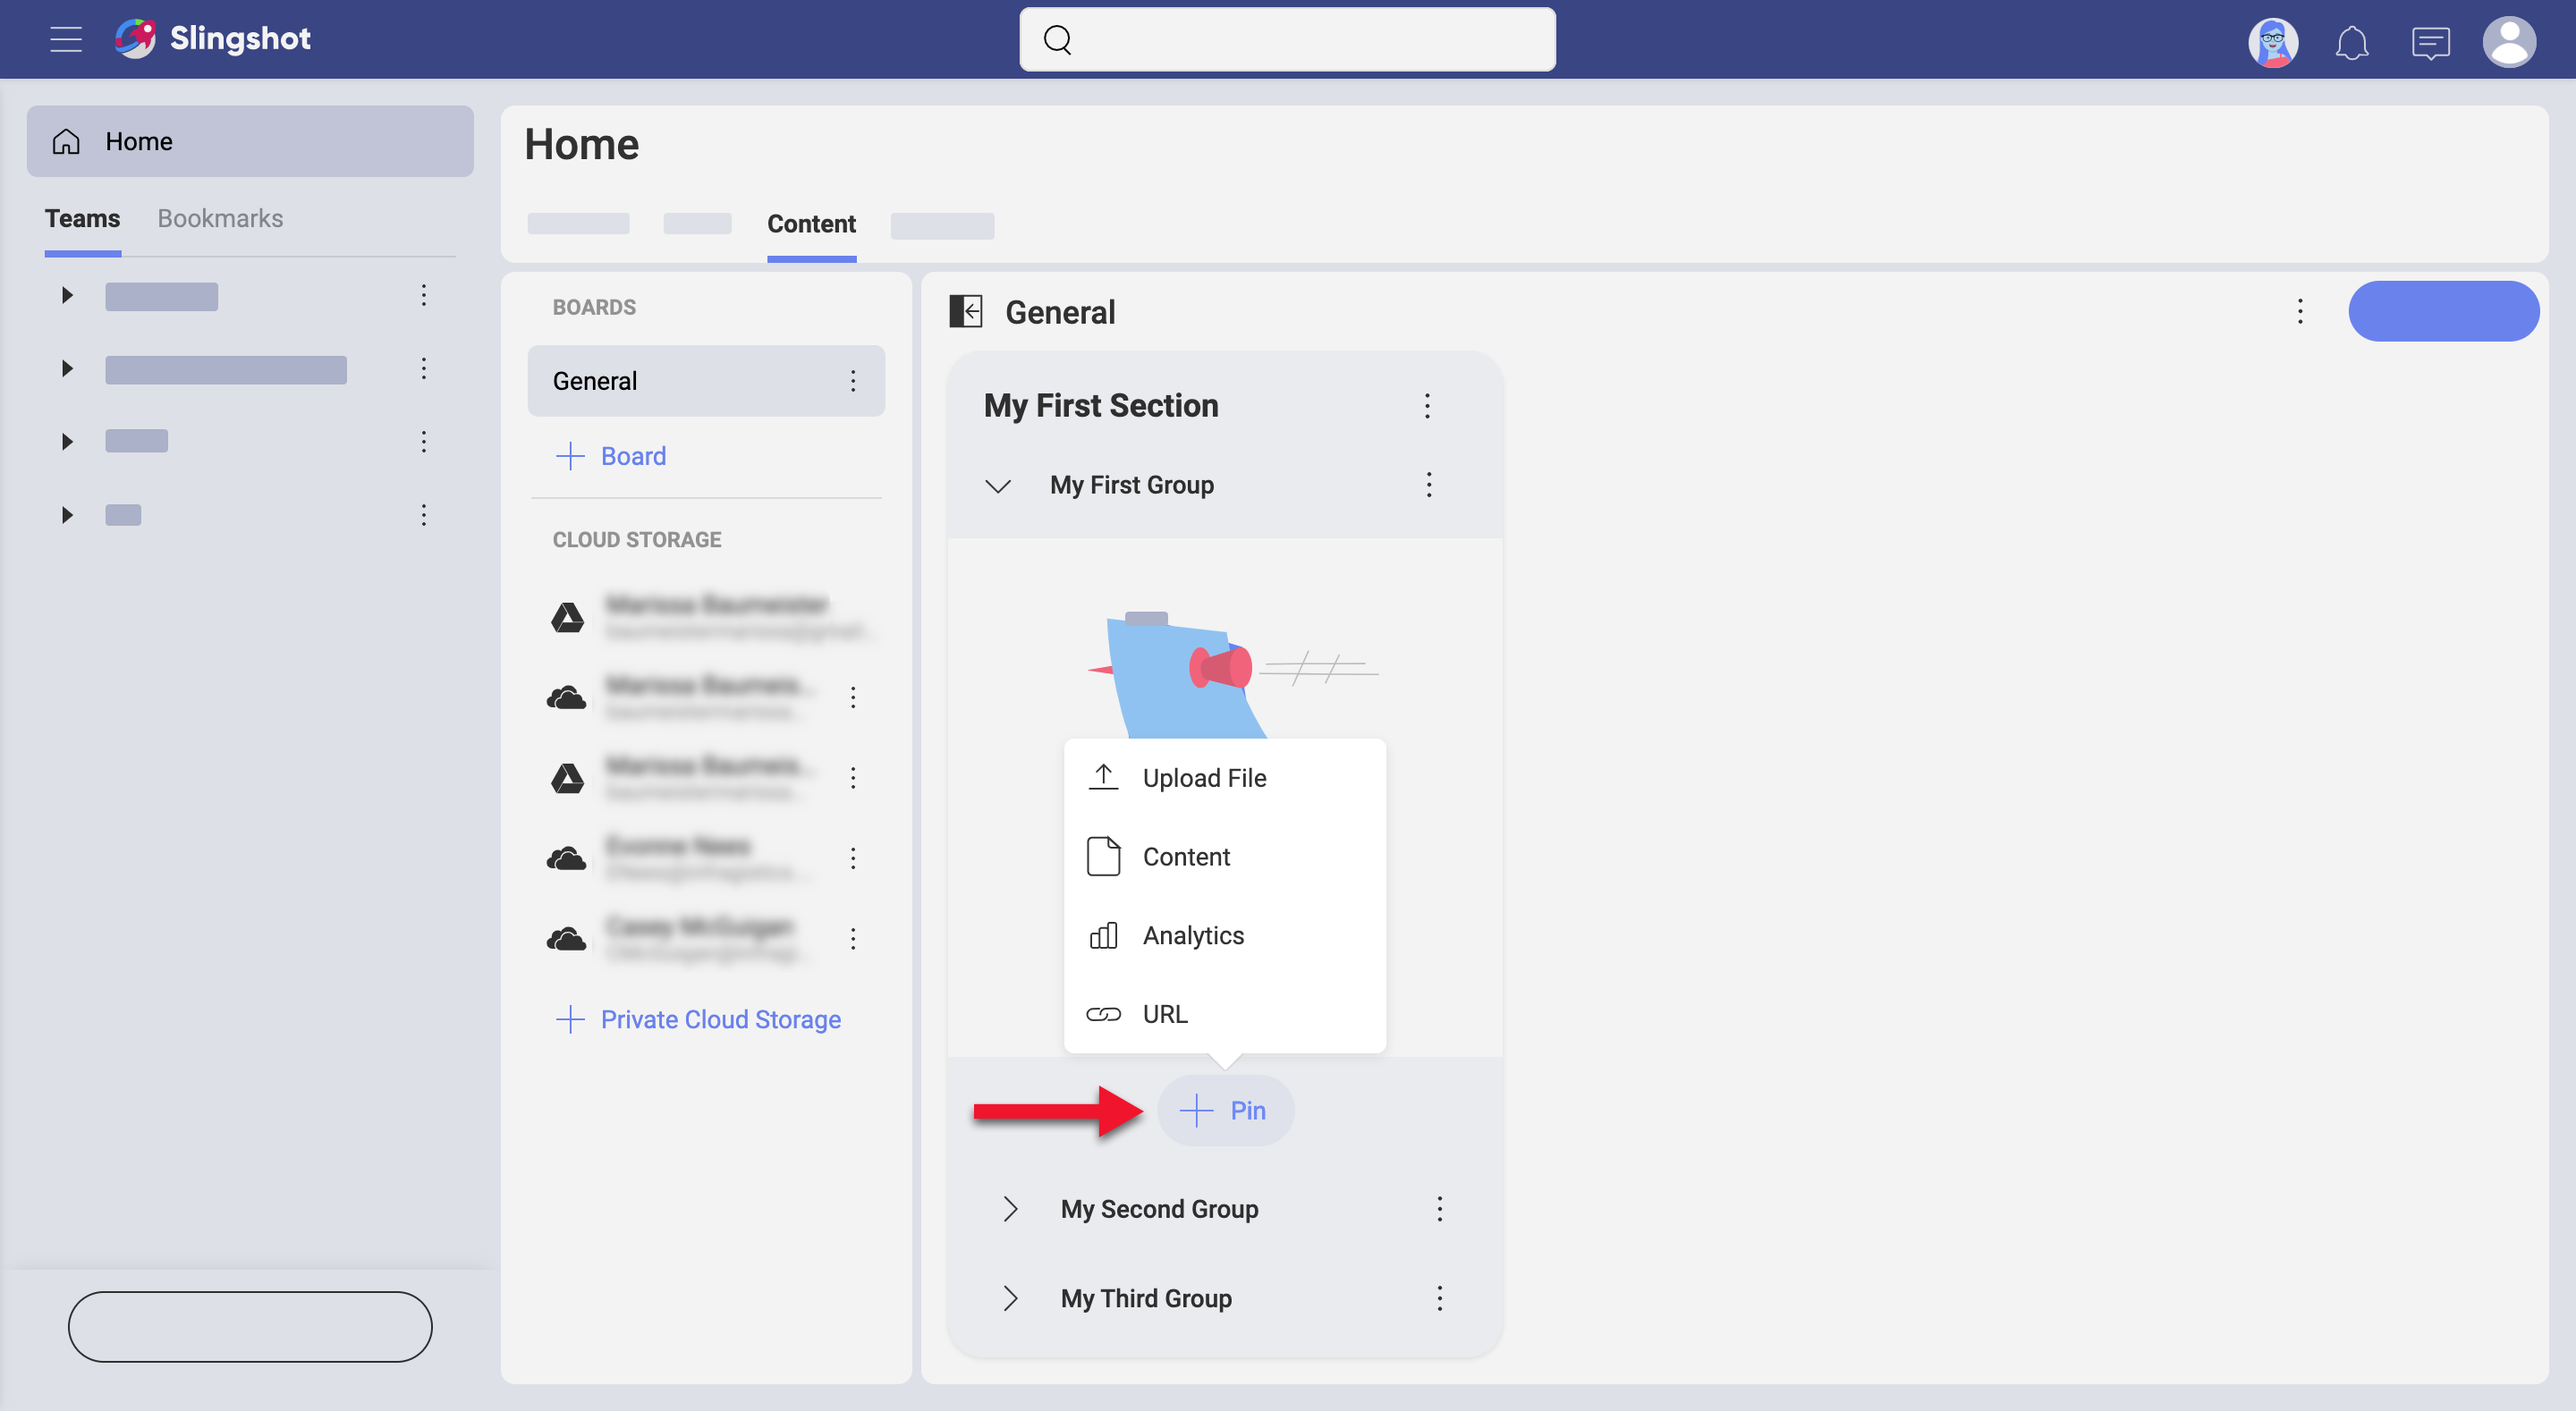
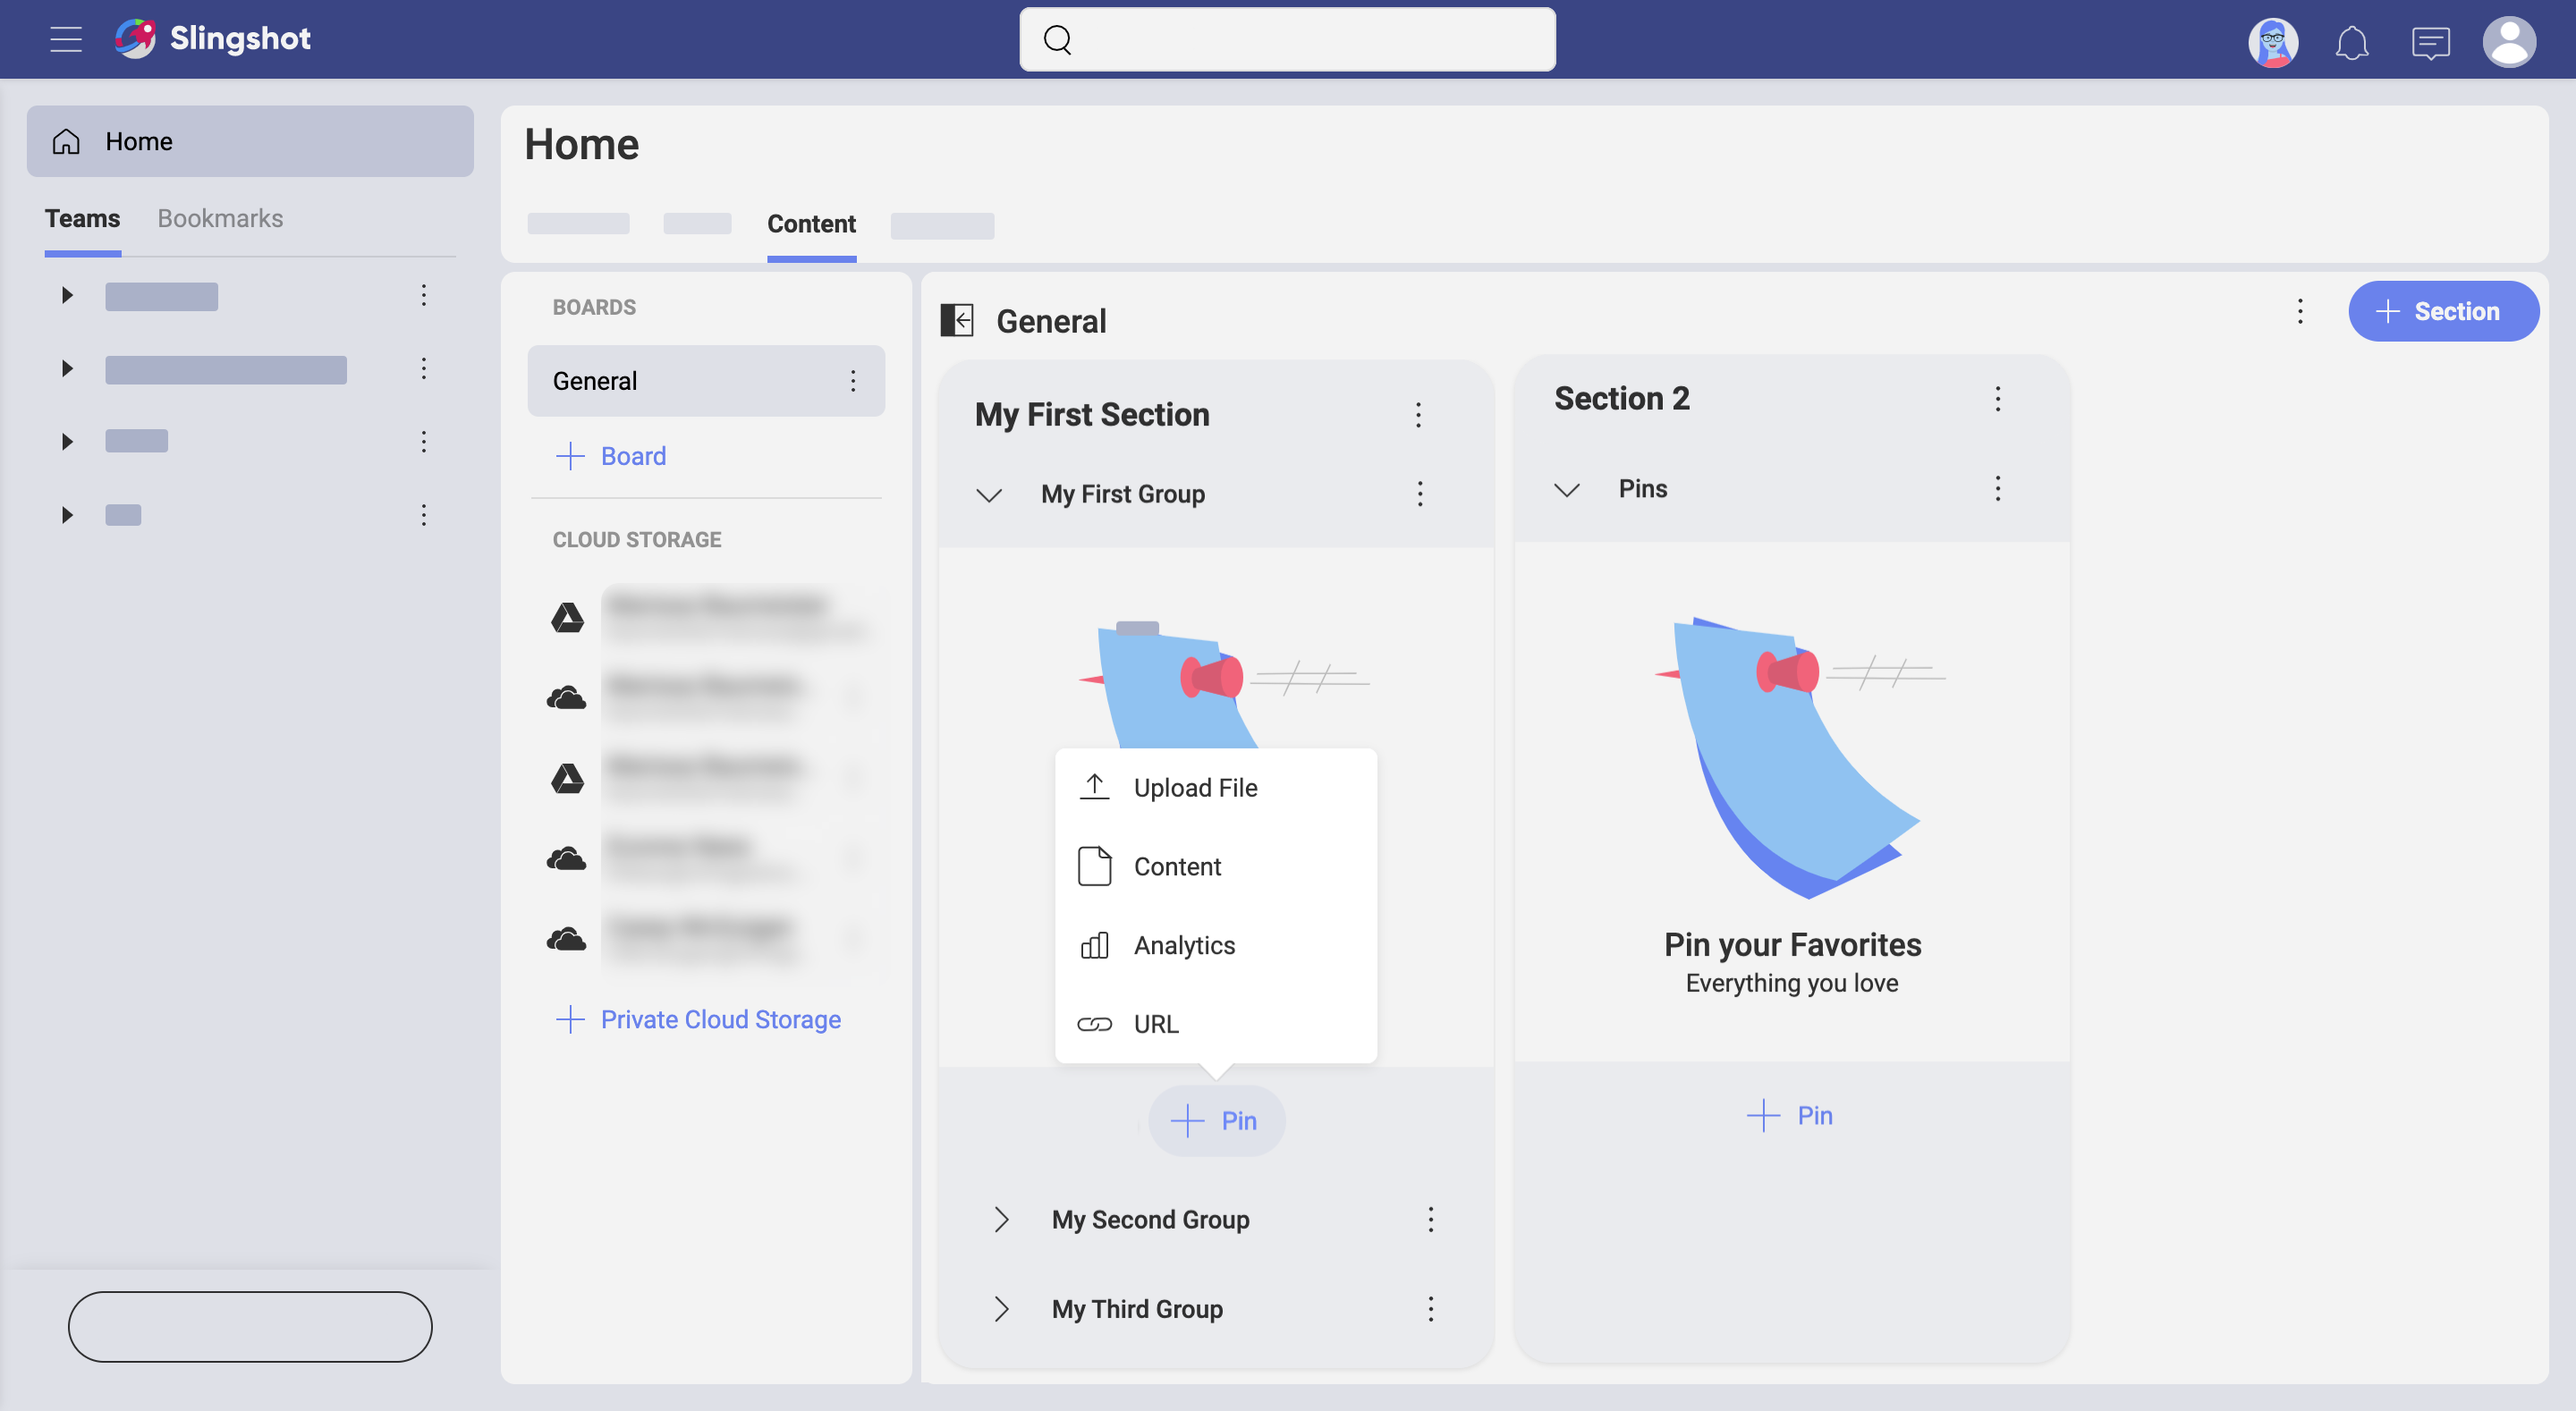
Edit Content&Boards

diff --git a/docTopics/en/components/content-boards.md b/docTopics/en/components/content-boards.md
@@ -2,25 +2,44 @@
 
 Content is really a broad term, but related to IT, is always about information made available by a digital or electronic medium.  The content that is relevant to you might be stored in different locations and, in today's digital world, probably in different cloud storages. Slingshot lets you access that content, share it, and organize it in boards.
 
-Scrum boards and Kanban boards are well-known IT concepts that are are both related to project management. Going for a broader concept, boards can also be just containers that help organize and manage content. That is the case of Slingshot, boards were created so you can have a place to organize your content.
+Scrum boards and Kanban boards are well-known IT concepts that are both related to project management. Going for a broader concept, boards can also be just containers that help organize and manage content. That is the case of Slingshot, boards were created so you can have a place to organize your content.
 
-### So, What's Content and Boards within Slingshot?
+### So, What's Content Within Slingshot?
 
-Boards are basically containers, rich and flexible containers designed to organize, manage, and share your content. And content refers to information, more specifically files, that are made available to you through connections to cloud storages. So, when you need to organize or share content from your cloud storages, just pin that content to a board, and later organize or share that board.
+Content refers to:
+
+* files,
+* *Analytics* dashboards, and 
+* URLs
+
+made available to you in the _Content_ tab. You will find a *Content* tab in _Home_, each of your *Workspaces*, and in the *Organization* space. You can add content from your device or cloud storage.
+
+### What Are Boards Within Slingshot? 
+
+Boards are basically containers, rich and flexible containers designed to organize, manage, and share your content. 
+So, when you need to organize or share content from your cloud storages or device, just pin that content to a board, and later organize or share that board.
 
 ### Working with Your Content in Slingshot
 
-Pinning content to a board is one of the most common actions in Slingshot. This is how you make content from your cloud storages available for others. You just go to a board and choose _Pin_ > *Content* as shown below.
+Pinning content is how you make your content available in Slingshot. You just go to a board and choose _Pin_. 
 
-<img src="../images/pin-content-action.png" alt="Pin Content action in Slingshot" width="100%"/>
+As you can see below, your board is divided into sections (_My First Section_, _Section 2_ in the image). Sections can be divided to groups, where your content is actually pinned (see _My First Group_, _My Second Group_ and _My Third Group_ in the image above). Groups are the most basic element used to organize content on your boards. 
 
-As you can see above, you actually pin content to groups (see _My First Group_, _My Second Group_ and _My Third Group_ in the image above). Groups are the most basic element used to organize content on your boards. As said earlier, boards are just containers that rely on sections and groups to organize and divide content.
+<img src="../images/pin-content-action.png" alt="Pin action in Slingshot" width="100%"/>
 
-After choosing to pin content, a dialog is shown where you can select existing cloud storage or add a new one.
+To pin a file from your device, choose _Upload File_. 
+
+If you select _Content_, you can pin: 
+
+* files from your cloud storage,
+* files that are already pinned to other boards in Slingshot, or 
+* dashboards from Analytics.
+
+If you choose to pin content from cloud storage, a dialog is shown where you can select existing cloud storage or add a new one.
 
 <img src="../images/pin-content-storages.png" alt="Choosing a cloud storage to pin content from in Slingshot" width="100%"/>
 
-Then, just choose the file or folder you want to pin to the board. Yes, you can pin either files or folders, plus you can even upload files on the fly (see below) and pin them.  
+Then, just choose the file or folder you want to pin to the board. Yes, you can pin either files or folders, plus you can even upload files from your device to the cloud storage on the fly (see below) and pin them.  
 
 <img src="../images/pin-content-upload.png" alt="Choosing content from the cloud storage to be pinned in Slingshot" width="100%"/>
 
@@ -28,7 +47,7 @@ Alternatively, you can go to existing cloud storage in you _Home_ tab and choose
 
 <img src="../images/pin-content-home-tab.png" alt="Pinning content from the cloud storage" width="100%"/>
 
-Note that you can also create a task or start a discussion on the fly. After choosing an option, you'll be prompted to select where the pin, task, or discussion will be created.
+After choosing an option, you'll be prompted to select where to pin the file. 
 
 <img src="../images/pin-content-destination.png" alt="Choosing the destination of the content within Slingshot" width="100%"/>
 
